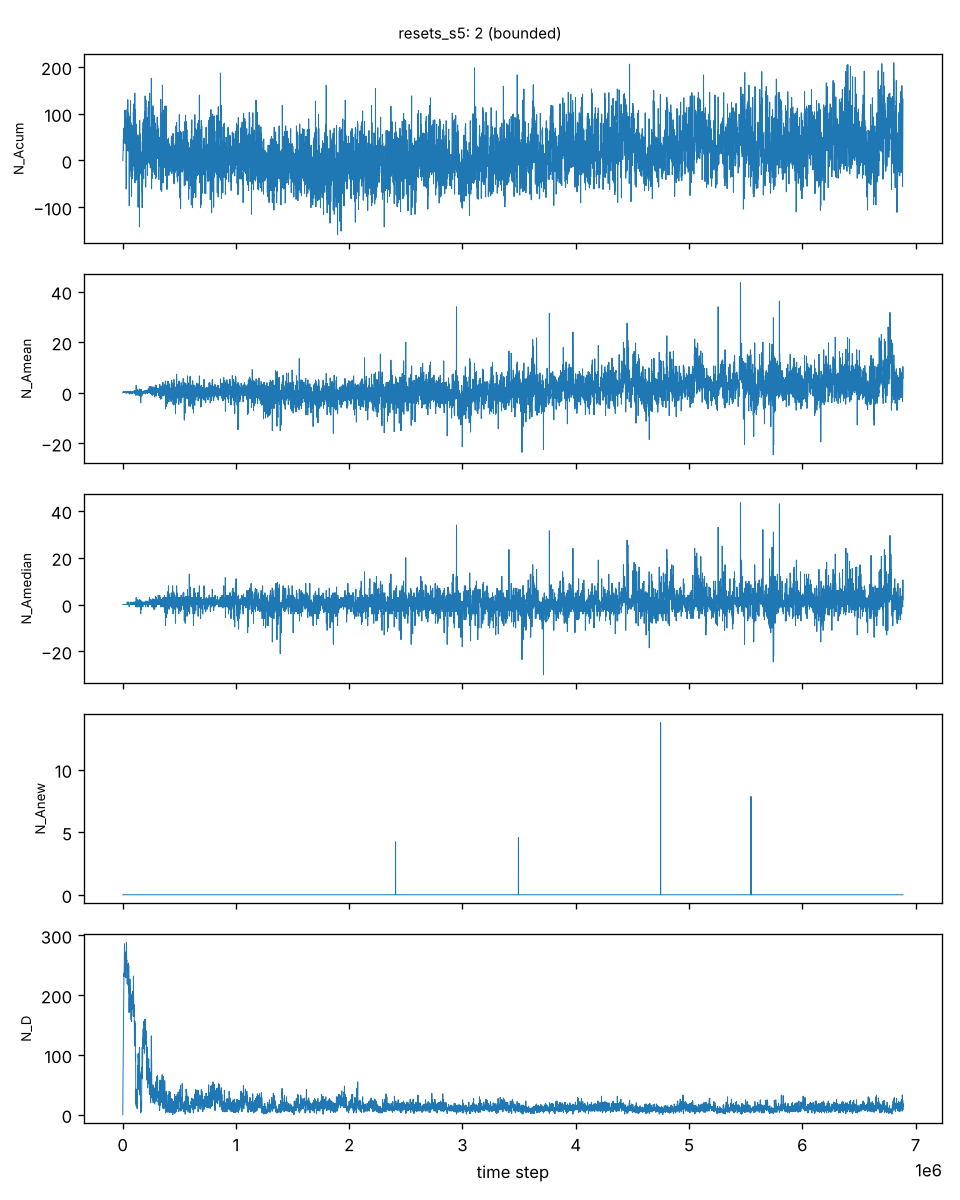
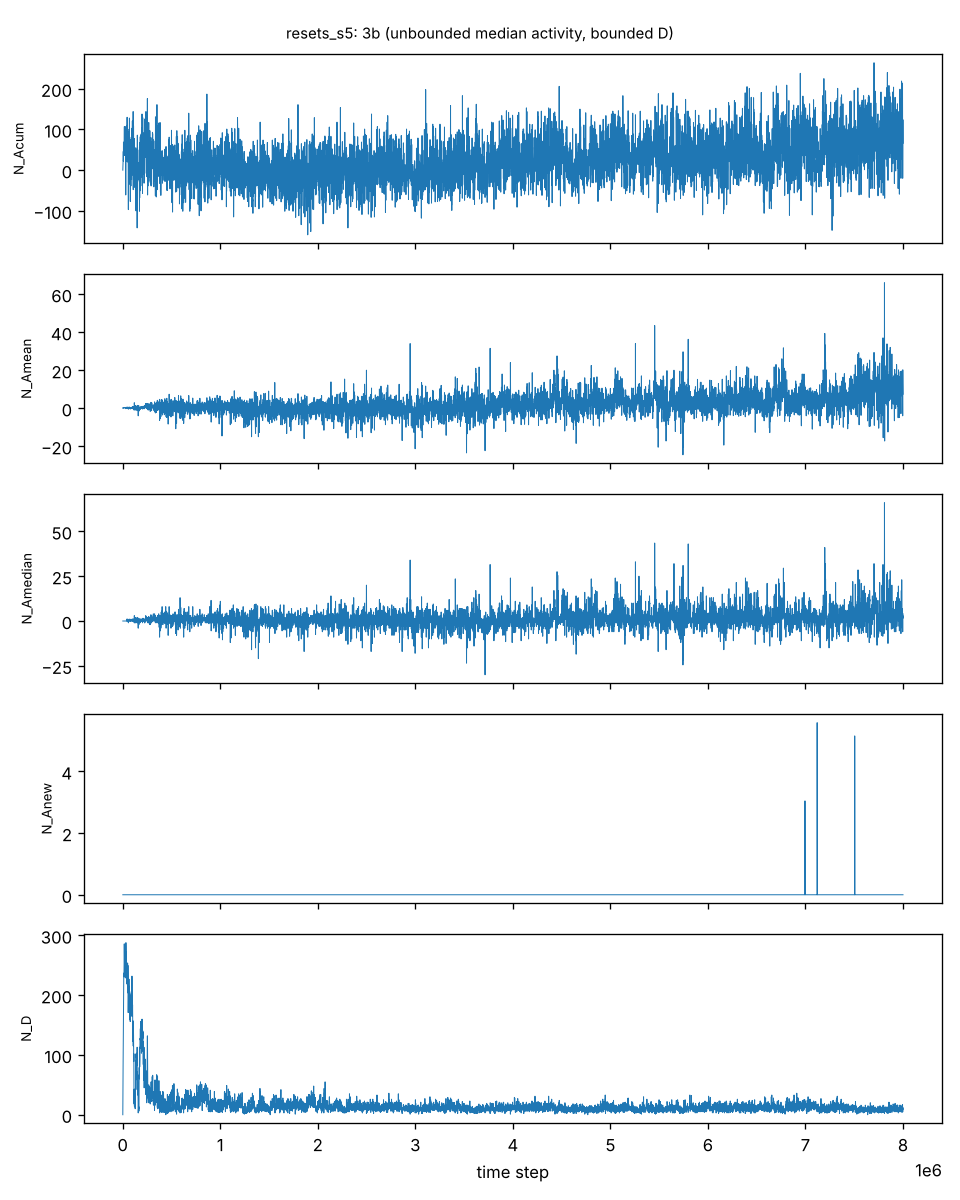
M1 results: seed 5 at 8M
Seed 5 completed 8M steps (no stagnation): smoothed normalised median
19 -> 99, class 3b. Its null control is also classified 3b by the strict
rule (median 1 -> 4, new activity in 0.075% of snapshots): a documented
false positive; the rule lacks an effect-size criterion.

diff --git a/docs/RESULTS.md b/docs/RESULTS.md
@@ -7,13 +7,13 @@ component class: production-rule predecessor plus link bits. Each run also carri
 null control: an independent second reset shadow, analysed as if it were the real run.
 
 1. In every run, normalised median activity grew while the run was evolving:
-   - from about 17-19 at 1M steps to 89 and 106 at 8M steps (seeds 2, 3);
-   - to 69 at 6M steps (seed 5).
+   - from about 17-19 at 1M steps to 89, 106 and 99 at 8M steps (seeds 2, 3, 5).
 
    Diversity stayed bounded (about 20-40 components after the initial transient).
    Normalised new activity stayed positive throughout.
-2. Every null control stayed flat. Its normalised median was between -5 and +2 at every
-   milestone, and it had no adaptive new activity.
+2. Every null control stayed near zero. Its normalised median was between -5 and +4 at
+   every milestone, and it had essentially no adaptive new activity (at most 0.075% of
+   snapshots).
 3. Two of five seeds stagnated:
    - seed 1 at 2.80M steps;
    - seed 4 at 6.50M steps.
@@ -21,8 +21,9 @@ null control: an independent second reset shadow, analysed as if it were the rea
    In each, a single killing population stopped reproducing. Channon reports the same
    outcome in some of his runs (GPEM sections 6.4 and 10). These runs are analysed up to
    their last birth.
-4. Under the strict Table I classification rule defined below, results depend on run
-   length (details below). The smoothed trajectories are the more reliable evidence.
+4. The strict Table I classification rule defined below gives results that depend on
+   run length. It also gives one false positive: the seed-5 null at 8M (details
+   below). Effect sizes and smoothed trajectories are the more reliable evidence.
 
 This reproduces, qualitatively, Channon's class 3b result (unbounded evolutionary
 activity with bounded diversity) and adds an independent null control. "Unbounded"
@@ -58,11 +59,11 @@ Normalised median activity, averaged over +/-50 snapshots around each milestone.
 | 3 | null | 0 | -2 | 0 | 1 | -2 | 0.00 | |
 | 4 | real | 17 | 30 | 45 | 20 | - | 0.06 | 6,497,300 |
 | 4 | null | 1 | 1 | 1 | 0 | - | 0.00 | |
-| 5 | real | 19 | 32 | 57 | 69 | (run at 6.9M) | 0.08 | - |
-| 5 | null | 1 | 0 | 1 | 2 | - | 0.00 | |
+| 5 | real | 19 | 32 | 57 | 69 | 99 | 0.07 | - |
+| 5 | null | 1 | 0 | 1 | 2 | 4 | 0.00075 | |
 
 Seed 4's decline from 45 to 20 precedes its stagnation: the population collapsed
-before freezing. Seed 5 was still running when this was written.
+before freezing. Seeds 2, 3 and 5 completed 8M steps with live populations.
 
 ![seed 3 real](results/m1/resets_s3_pb_real.png)
 ![seed 3 null](results/m1/resets_s3_pb_null.png)
@@ -81,15 +82,22 @@ Class 3b also requires positive new activity and bounded diversity.
 | 2 | 2 | 3b | 3b | 2 | 3b (8M) |
 | 3 | 3b | 2 | 3b | 3b | 2 (8M) |
 | 4 | | 3b | 3b | 3b | 2 (to 6.5M) |
-| 5 | | 3b | 3b | 3b | 3a (6.9M) |
-| nulls | 1-2 | 1-2 | 1-2 | 1-2 | 1-2 (rule grouping: 3a in two nulls) |
+| 5 | | 3b | 3b | 3b | 3b (8M) |
+| nulls | 1-2 | 1-2 | 1-2 | 1-2 | 1-2, except seed-5 null: 3b (8M); rule grouping: 3a in two nulls |
 
 The changes between checks have three causes:
 - **Seeds 2 and 3.** The last-quarter slope criterion responds to multi-million-step
   plateaus that are later followed by renewed growth: for both seeds, the median went
   from 58 to 89 and from 72 to 106 between 6M and 8M.
-- **Seed 5's "3a".** This comes from a small upward drift in diversity, which stays
-  at about 30.
+- **Seed 5 at 6.9M ("3a").** This came from a small upward drift in diversity, which
+  stays at about 30. At 8M it is 3b.
+- **Seed-5 null at 8M (false positive).** Its median drifted from 1 to 4 over 8M steps
+  (Mann-Kendall z 3.83, slope 0.34 per 1e6 steps), and it had positive new activity in
+  3 of about 4000 second-half snapshots. The rule has no minimum effect size, so a
+  slow drift in a null can pass it. For comparison, the seed-5 real run has slope 15.3
+  per 1e6 steps and new activity in 7% of snapshots. A next version of the test should
+  compare real and null directly: effect size, or a paired test against the
+  null-control distribution.
 - **Seed 4.** It reflects its pre-stagnation decline.
 
 The rule is reported as fixed rather than adjusted after seeing the data. Full table,
@@ -114,6 +122,8 @@ including the whole-rule grouping: [results/m1/summary_final.md](results/m1/summ
    Shorter-lived components are invisible to the test.
 
 ## Next
-- Finish seed 5. Run more seeds and the independent-shadow variant on further seeds.
+- Replace the per-run trend rule with a real-versus-null comparison (effect size, or a
+  test calibrated on many null controls).
+- Run more seeds, and the independent-shadow variant on further seeds.
 - Channon 2019 joint-scaling test (`-length`, `-neurons`).
 - Larger populations, to reduce stagnation (requires the L0/L3 work in DESIGN.md).

diff --git a/docs/results/m1/summary_final.md b/docs/results/m1/summary_final.md
@@ -16,9 +16,9 @@
 | resets_s4 (stagnated; truncated at 6497300) | pb | null | 6497000 | 14.4 | 0 | -3.93 | 0.0 | 56 | 0.00 | 1 (no significant new activity) |
 | resets_s4 (stagnated; truncated at 6497300) | rule | real | 6497000 | 22.2 | 1 | -1.30 | -3.7 | 2061 | 0.18 | 2 (bounded) |
 | resets_s4 (stagnated; truncated at 6497300) | rule | null | 6497000 | 10.8 | 0 | -4.54 | -0.6 | 25 | 0.00 | 3a (unbounded D) |
-| resets_s5 | pb | real | 6889000 | 24.0 | 63 | 4.51 | -7.1 | 7760 | 0.08 | 3a (unbounded D) |
-| resets_s5 | pb | null | 6889000 | 11.2 | 2 | 3.82 | 0.0 | 131 | 0.00 | 2 (bounded) |
-| resets_s5 | rule | real | 6889000 | 20.2 | 2 | -1.44 | -0.9 | 2332 | 0.19 | 3a (unbounded D) |
-| resets_s5 | rule | null | 6890000 | 7.5 | 1 | -2.63 | 0.0 | 5 | 0.00 | 2 (bounded) |
+| resets_s5 | pb | real | 8000000 | 23.9 | 116 | 6.16 | 15.3 | 6570 | 0.07 | 3b (unbounded median activity, bounded D) |
+| resets_s5 | pb | null | 8000000 | 11.2 | 4 | 3.83 | 0.7 | 66 | 0.00 | 3b (unbounded median activity, bounded D) |
+| resets_s5 | rule | real | 8000000 | 20.4 | 9 | 0.92 | 0.7 | 2258 | 0.18 | 2 (bounded) |
+| resets_s5 | rule | null | 8000000 | 7.8 | 1 | 0.26 | 0.0 | 19 | 0.00 | 1 (no significant new activity) |
 | no_resets_s1 (stagnated; truncated at 2799900) | pb | real | 2799000 | 40.8 | -26 | 0.48 | -61.0 | 7161 | 0.41 | 2 (bounded) |
 | no_resets_s1 (stagnated; truncated at 2799900) | rule | real | 2799000 | 27.7 | -2 | 0.90 | -4.3 | 5079 | 0.07 | 2 (bounded) |
